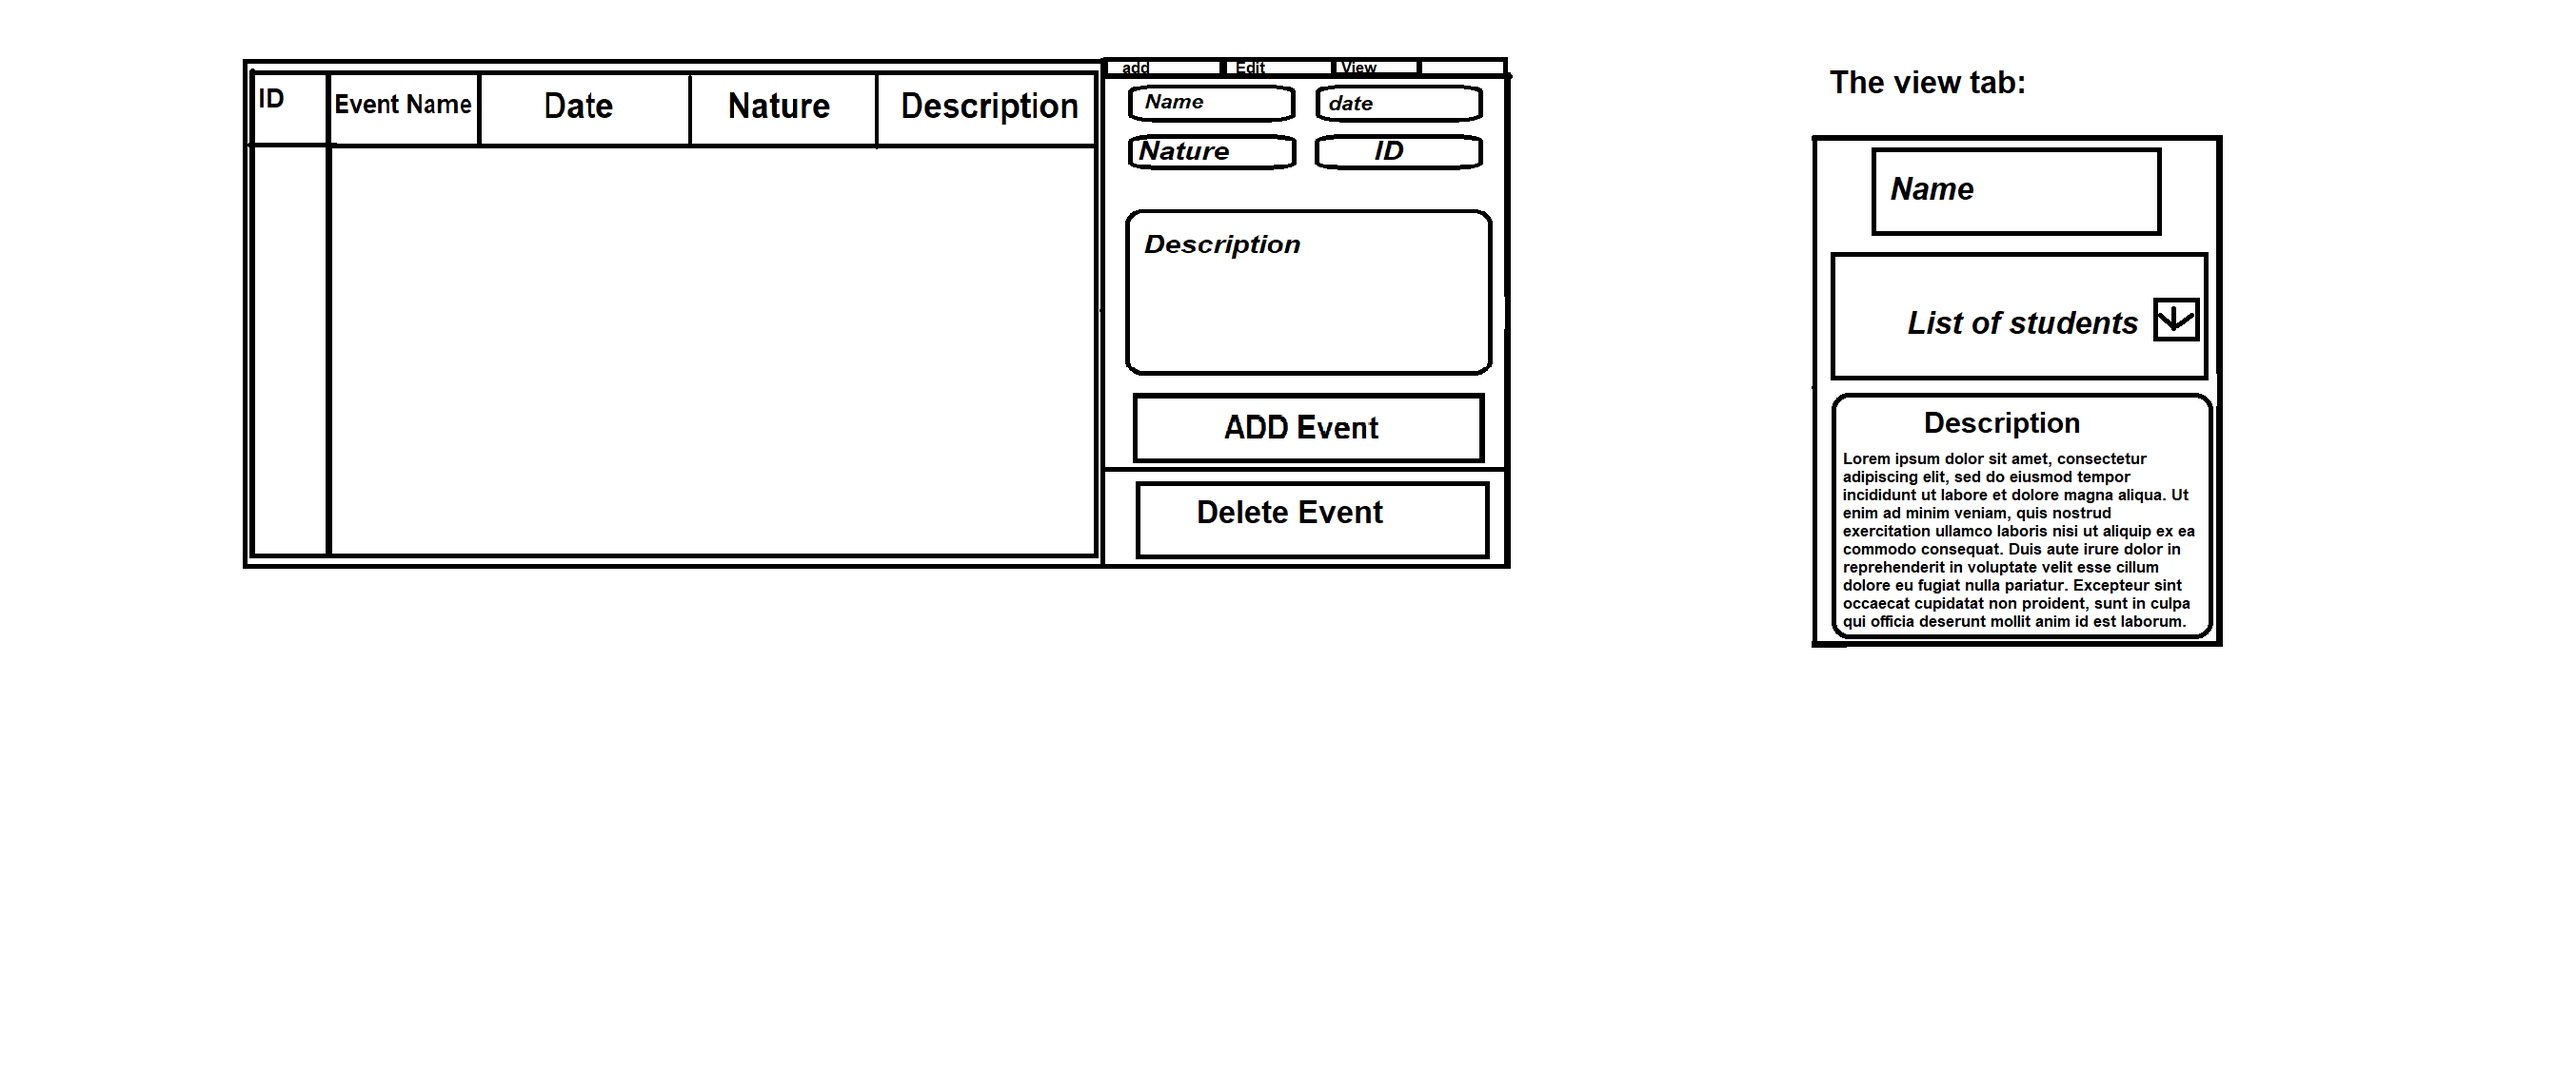
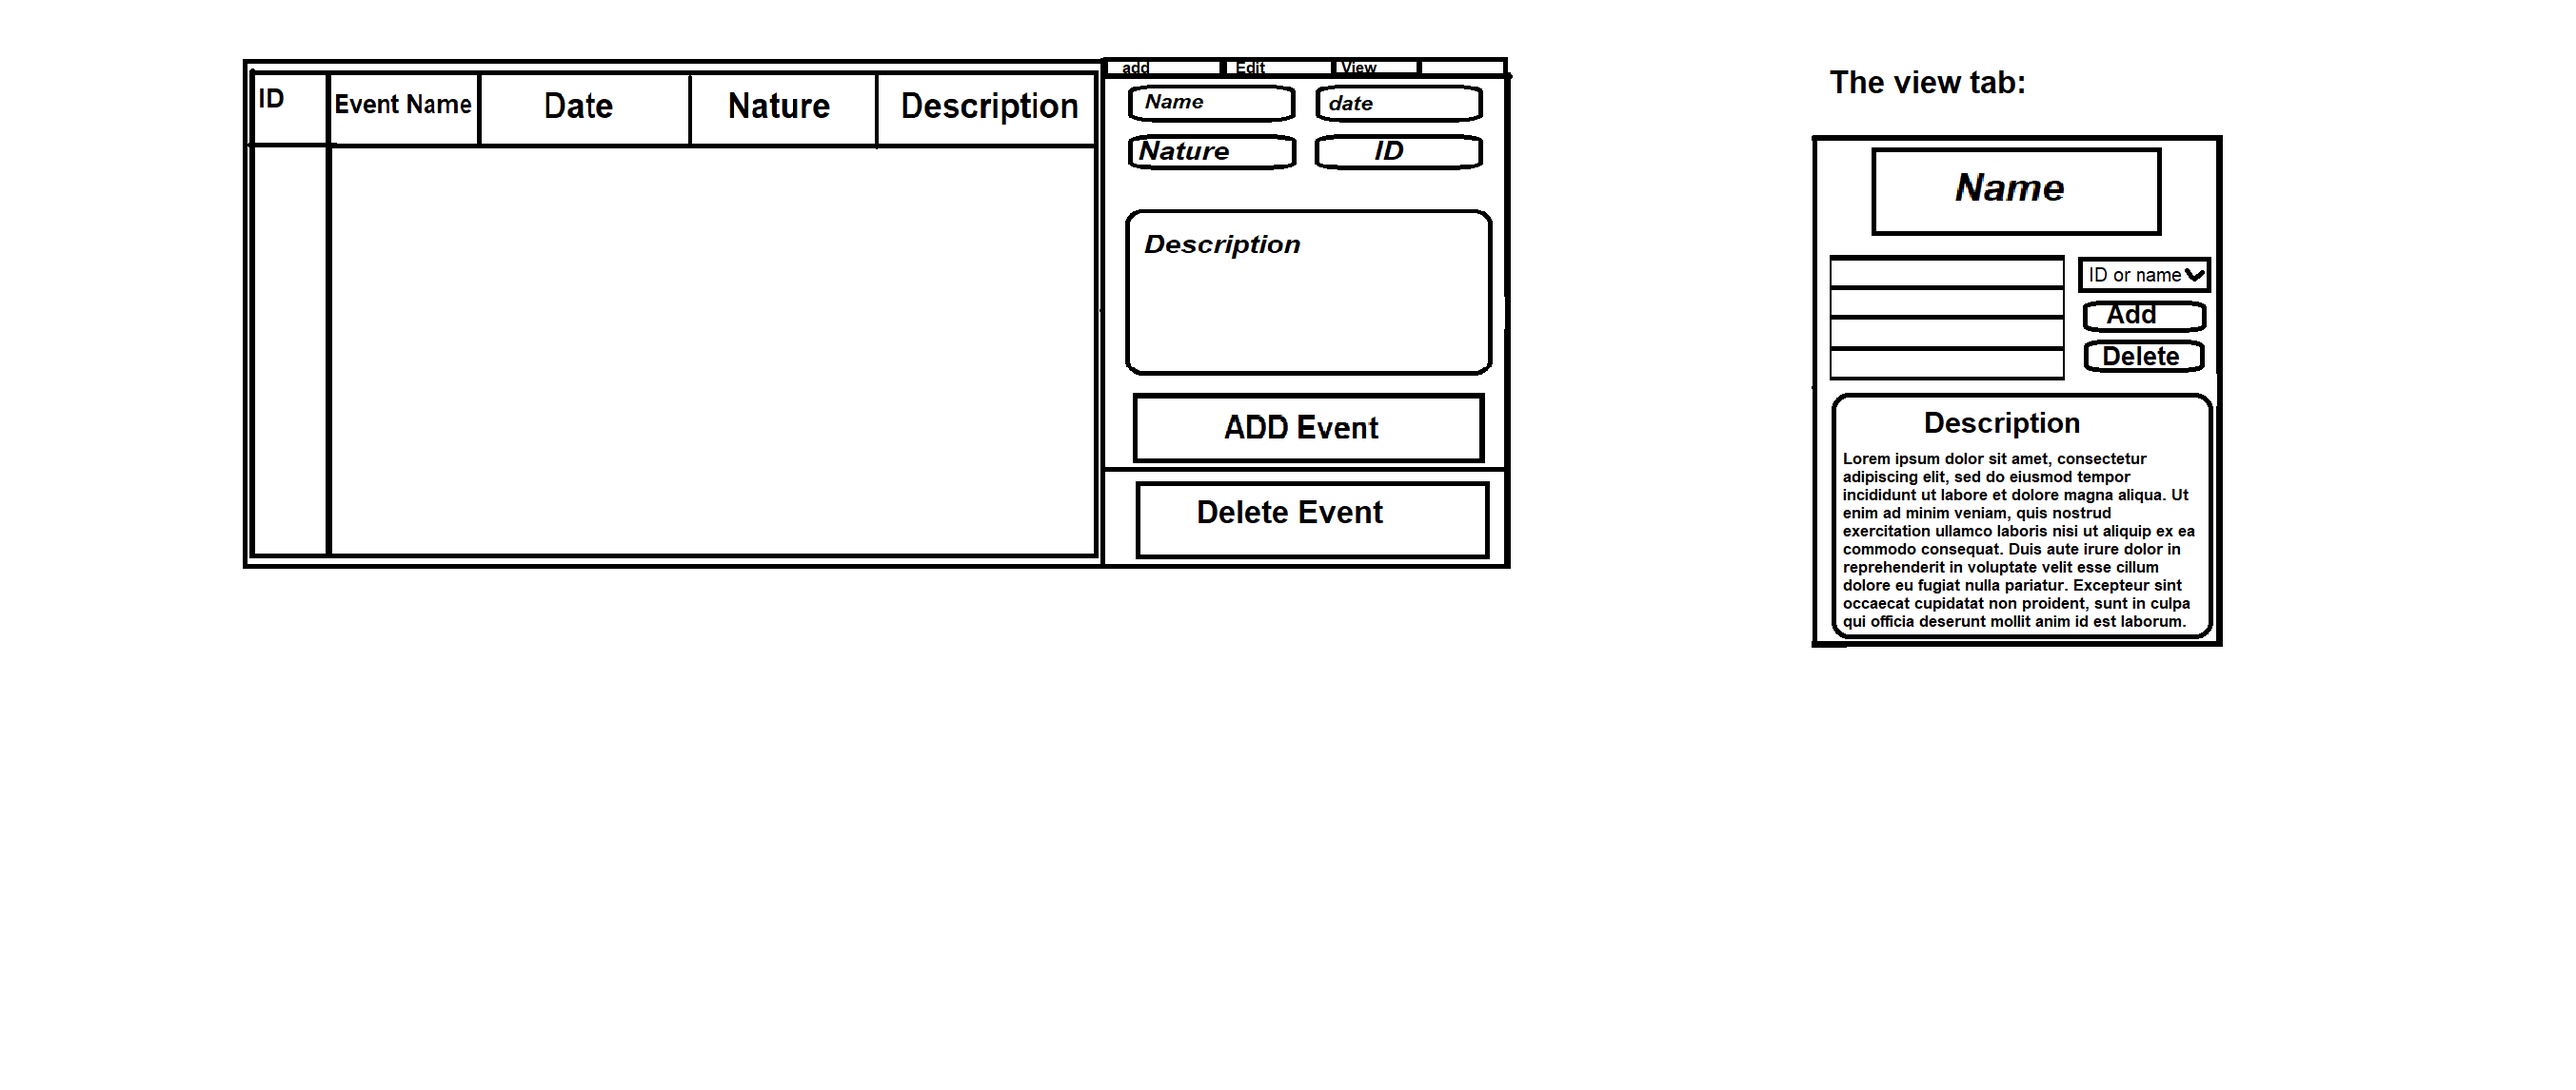
Updated the view frame in gui_events, Updated the event design file, created file for help and report frames.

Changed region(s): [[0.714, 0.2138, 0.8692, 0.3665], [0.714, 0.1527, 0.8071, 0.1832]]

diff --git a/gui_events.py b/gui_events.py
@@ -219,29 +219,38 @@ class ViewTab(ct.CTkFrame):
     def __init__(self, *args, **kwargs):
         super().__init__(*args, **kwargs)
         self.configure(fg_color="transparent")
-        self.id = ct.CTkEntry(self, placeholder_text=" Event ID", font=('arial', 20), height=40)
-        self.id_enter = ct.CTkButton(self, text=" Select", font=('arial', 20), height=40, anchor='center',
-                                     corner_radius=6)
+        self.event_name = ct.CTkLabel(self, text="Event Name", font=('arial', 30))
         # Student_list
         self.student_list = ct.CTkFrame(self, border_width=4, border_color='black', height=100)
+        # student tools
+        self.student_tools = ct.CTkFrame(self, fg_color='transparent')
+        self.student_select = ct.CTkComboBox(self.student_tools)
+        self.student_add = ct.CTkButton(self.student_tools, text='Add Student', font=('arial', 10))
+        self.delete_student = ct.CTkButton(self.student_tools, text='Delete Student', font=('arial', 10))
+
         self.description = ct.CTkTextbox(self, height=200, font=('arial', 20))
         # add_default text for description box
         self.description.insert('0.0', 'Description of the event')
 
         # griding
         pad = 10
-        self.id.grid(row=0, column=0, sticky='NSEW', padx=(pad + 90, pad + 10), pady=(pad + 40, pad + 10))
-        self.id_enter.grid(row=0, column=1, sticky='NSEW', padx=(pad + 10, pad + 90), pady=(pad + 40, pad + 10))
+        self.event_name.grid(row=0, column=0, sticky='NSEW', columnspan=2,
+                             padx=pad + 40, pady=(pad + 20, pad + 10))
+        self.student_list.grid(row=1, column=0, sticky='NSEW', padx=(pad, 0), pady=pad, rowspan=3)
 
-        self.student_list.grid(row=1, column=0, sticky='NSEW', padx=pad + 40, pady=pad, columnspan=2)
-        self.description.grid(row=2, column=0, sticky='NSEW', padx=pad + 40, pady=pad, columnspan=2)
+        self.student_tools.grid(row=1, column=1, sticky='NSEW', padx=0, pady=pad)
+        self.student_select.grid(row=0, column=0, sticky='NSEW', padx=pad, pady=0)
+        self.student_add.grid(row=1, column=0, sticky='NSEW', padx=pad, pady=pad)
+        self.delete_student.grid(row=2, column=0, sticky='NSEW', padx=pad, pady=0)
+
+        self.description.grid(row=4, column=0, sticky='NSEW', padx=pad, pady=pad, columnspan=2)
 
         # applying a weight of 1 to all cells
         weight_cells_1(self)
 
         # Manually editing layout
-        self.rowconfigure(1, weight=3)
-        self.rowconfigure(2, weight=7)
+        #self.rowconfigure(1, weight=3)
+        self.rowconfigure(4, weight=7)
 
 
 if __name__ == "__main__":

diff --git a/gui_report.py b/gui_report.py
@@ -1,0 +1,12 @@
+import customtkinter as ct
+from tkinter import ttk
+
+
+
+if __name__ == '__main__':
+    ct.set_appearance_mode("dark")  # Modes: system (default), light, dark
+    ct.set_default_color_theme("dark-blue")
+    root = ct.CTk()
+    root.geometry("500x500")
+
+    root.mainloop()
